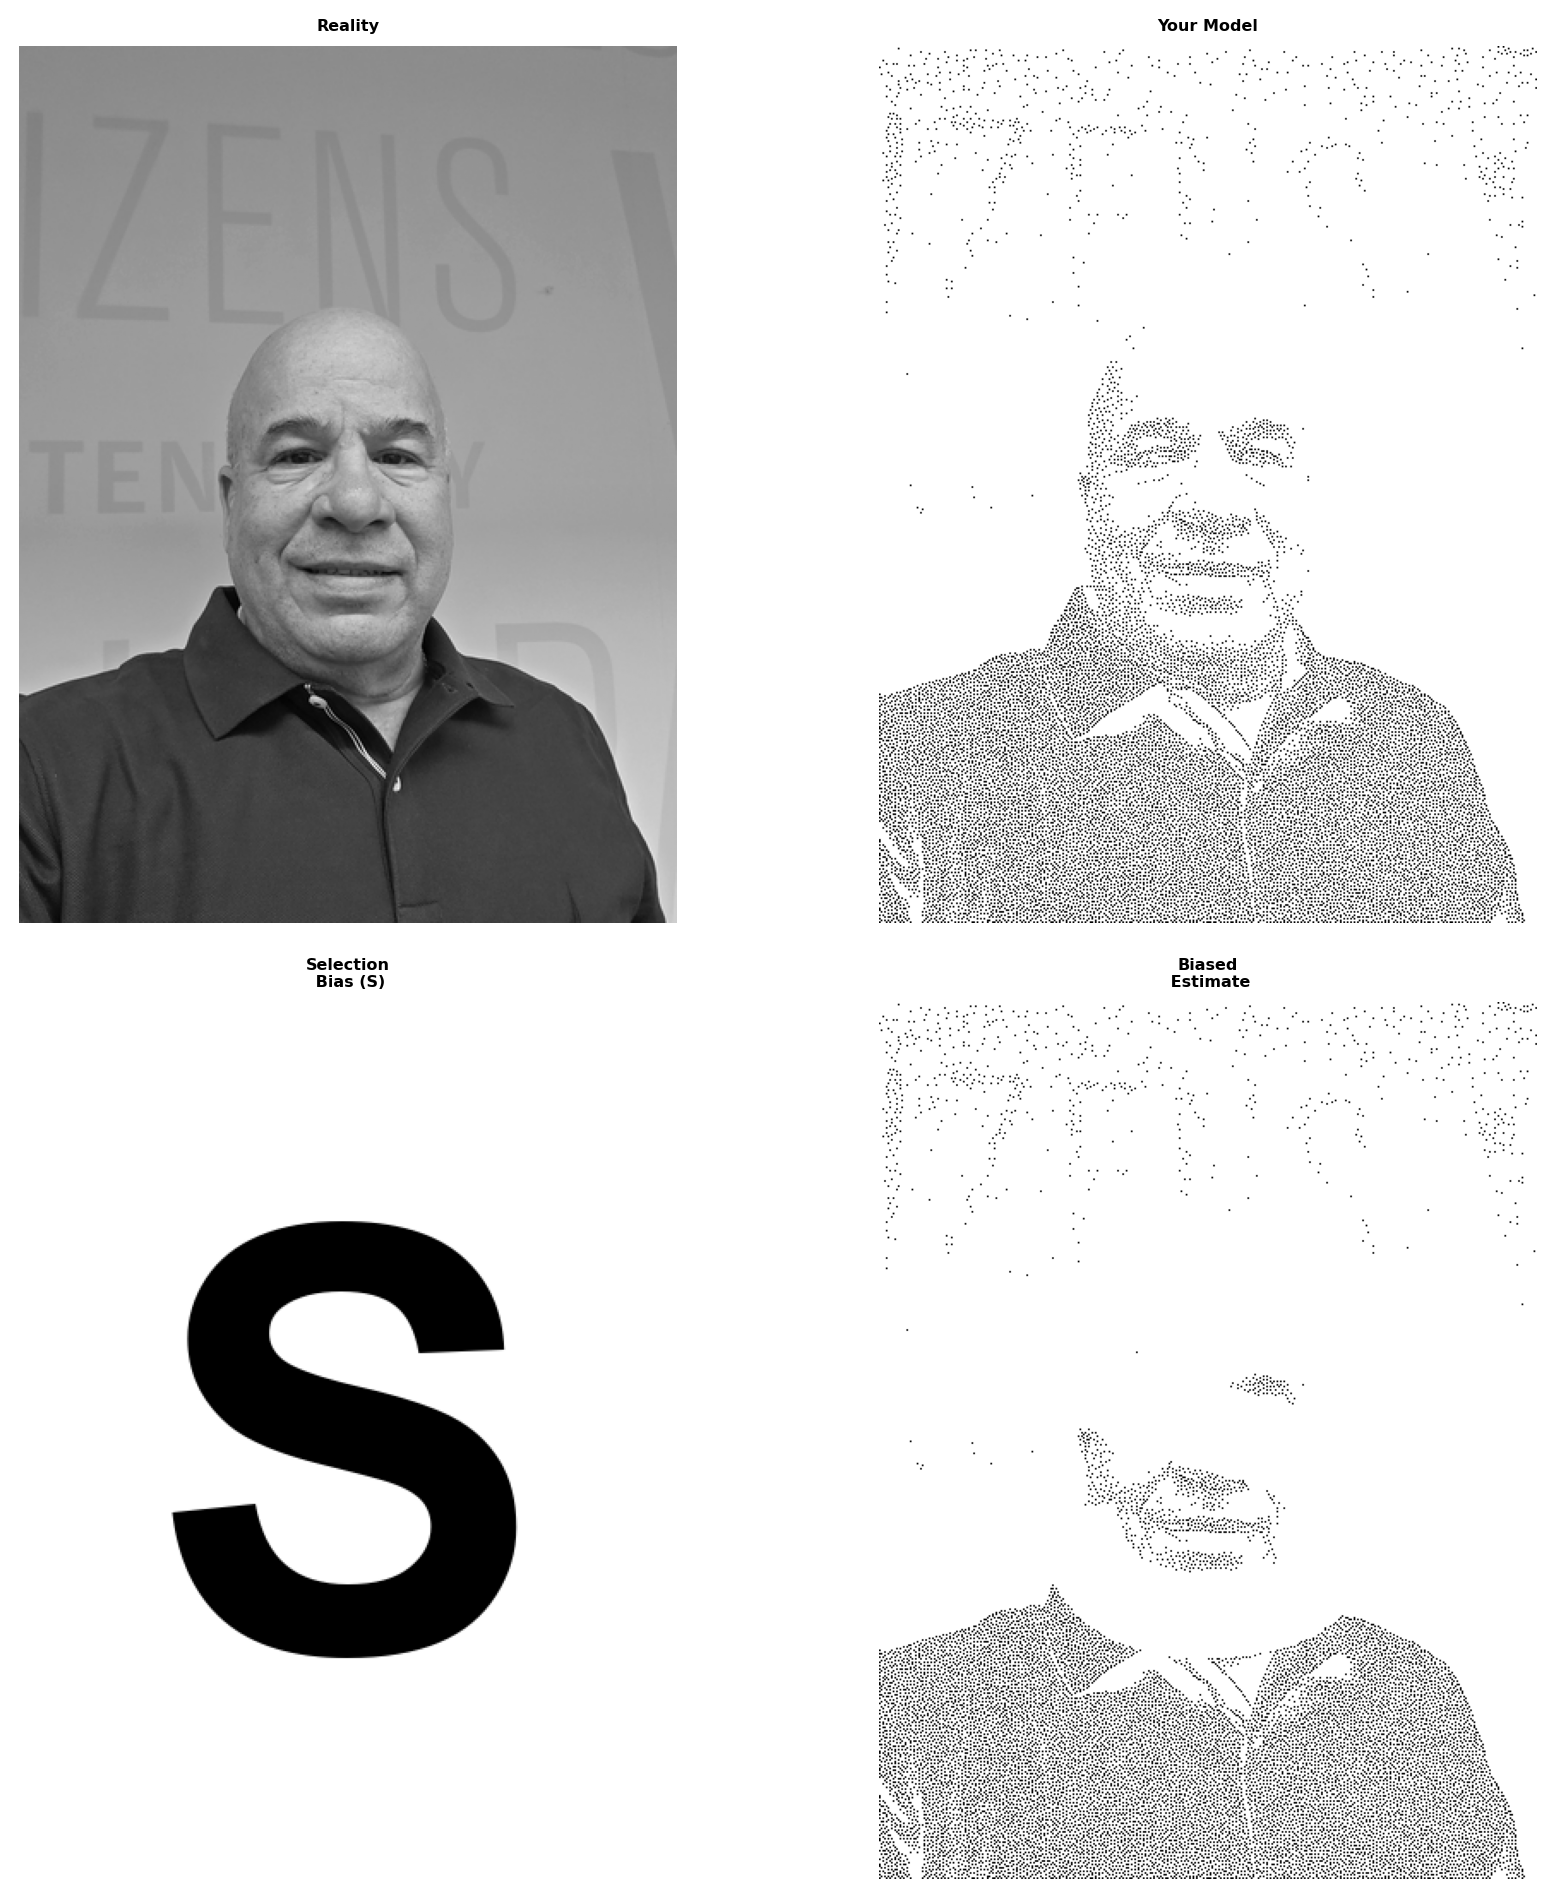
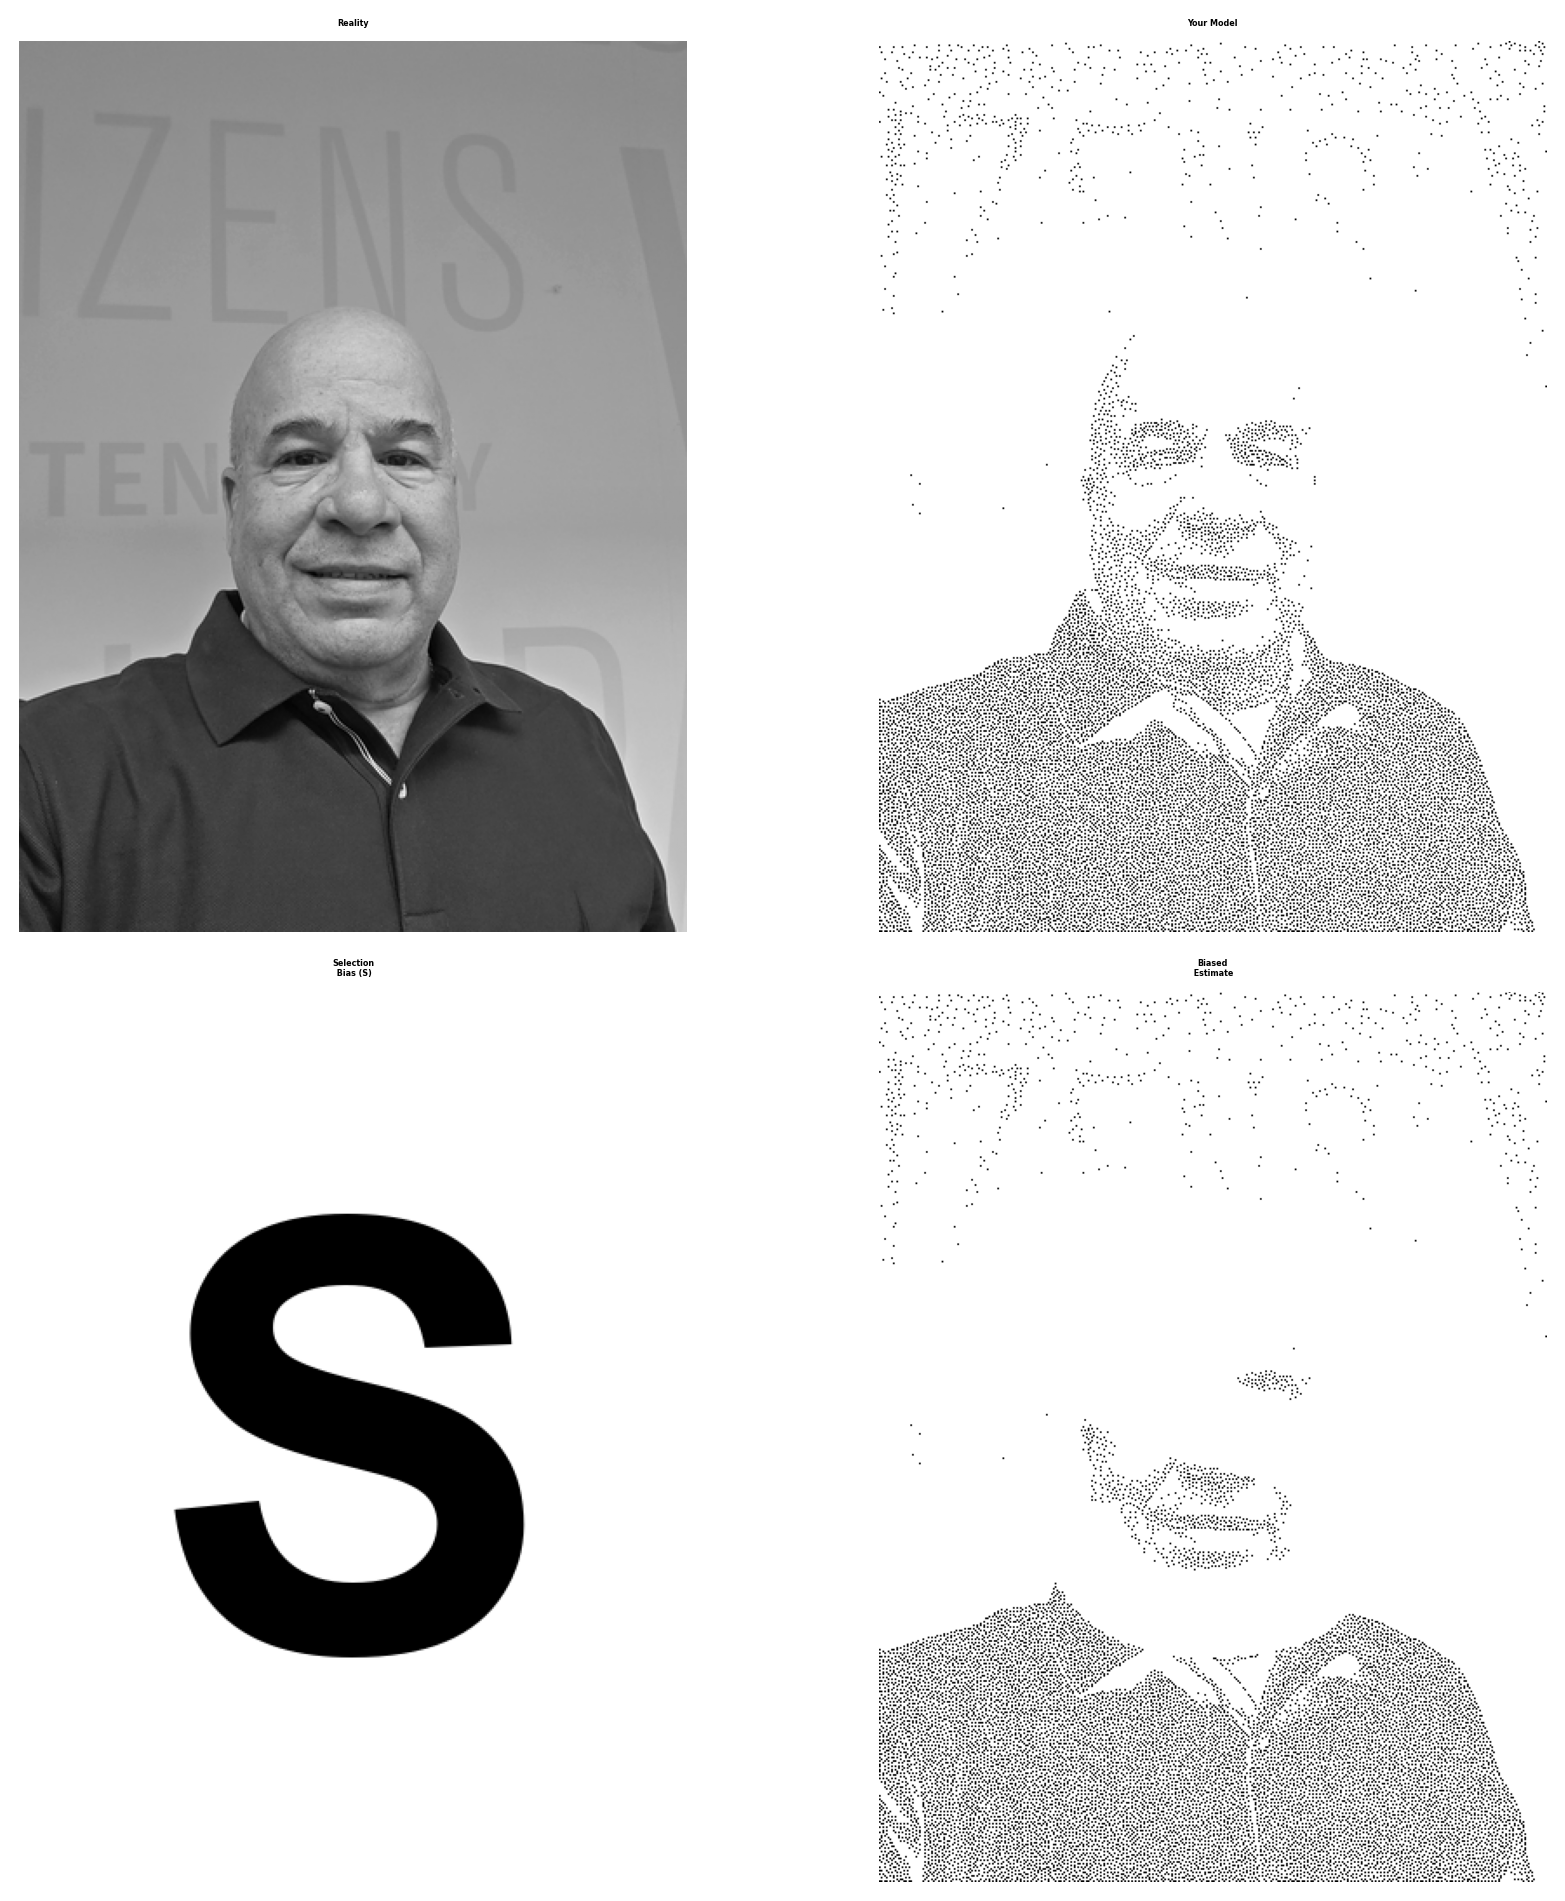
Update selection bias demonstration and rendered output

diff --git a/index.html b/index.html
@@ -69,12 +69,12 @@ ul.task-list li input[type="checkbox"] {
 <h2 class="anchored" data-anchor-id="the-meme">The Meme</h2>
 <p>This visualization demonstrates a fundamental challenge in statistical inference: <strong>selection bias</strong>. The meme uses a four-panel layout to illustrate how systematic patterns of missing data can distort our understanding of reality.</p>
 <p>The concept originates from a popular statistics meme format that uses simple images and masking patterns to show how selection bias works. When data is missing not at random but follows a systematic pattern (represented here by the letter “S”), our estimates become biased—we no longer see the true picture, but rather a distorted version shaped by which data points we were able to observe.</p>
-<div id="cell-final-meme-output" class="cell quarto-layout-panel" data-layout-ncol="2" data-layout-nrow="2" data-execution_count="6" data-fig-height="20" data-fig-width="20">
+<div id="cell-final-meme-output" class="cell quarto-layout-panel" data-layout-nrow="2" data-fig-height="20" data-layout-ncol="2" data-fig-width="20" data-execution_count="6">
 <div class="quarto-layout-row">
 <div class="quarto-layout-cell" style="flex-basis: 50.0%;justify-content: flex-start;">
 <div id="final-meme-output" class="quarto-figure quarto-figure-center anchored">
 <figure class="figure">
-<p><img src="index_files/figure-html/final-meme-output-output-1.png" width="778" height="949" class="figure-img"></p>
+<p><img src="index_files/figure-html/final-meme-output-output-1.png" width="783" height="951" class="figure-img"></p>
 <figcaption>Statistics meme demonstrating selection bias</figcaption>
 </figure>
 </div>
